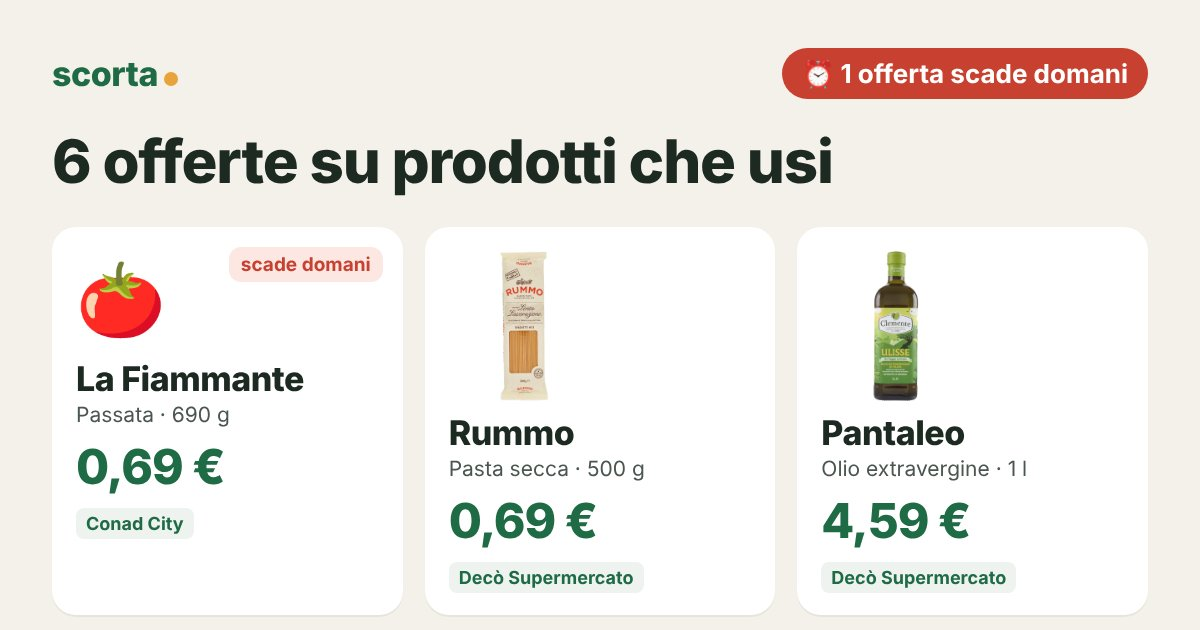
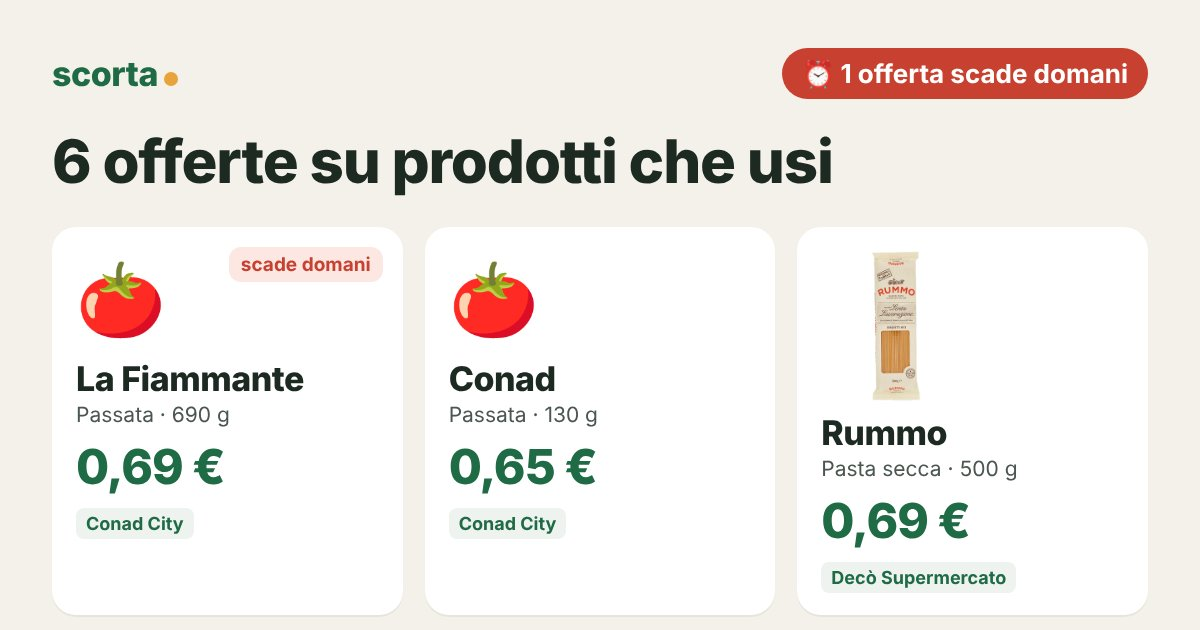
Pagine offerte 2026-11-03
Claude-Session: https://claude.ai/code/session_012BnByD7nnfoHswjF7TKs2L

diff --git a/o/5632e307/index.html b/o/5632e307/index.html
@@ -6,4 +6,4 @@
 <style>body{margin:0;font-family:-apple-system,system-ui,sans-serif;background:#F4F1EA;color:#1d2a22}main{max-width:560px;margin:auto;padding:16px}img{width:100%;border-radius:14px}
 ul{list-style:none;padding:0}li{display:flex;gap:10px;align-items:center;background:#fff;border-radius:12px;padding:10px 12px;margin:8px 0}.ic{font-size:26px}.th{width:44px;height:44px;object-fit:contain;background:#fff}li div:nth-child(2){flex:1}small{color:#6b746e}.pr{text-align:right;white-space:nowrap}s{color:#8a8f8b;font-size:13px}
 .btn{display:block;text-align:center;background:#1f6b45;color:#fff;font-weight:700;font-size:18px;padding:16px;border-radius:14px;text-decoration:none;margin:18px 0}.map{display:block;color:#1f6b45;margin:6px 0;text-decoration:none}</style></head>
-<body><main><img src="card.jpg" alt=""><a class="btn" href="https://tally.so/r/OQQV7k?f=F015&amp;a=A142,A143,A144,A145,A146,A147">✅ Segna cosa hai comprato</a><ul><li><span class=ic>🍅</span><div><b>La Fiammante passata di pomodoro Dolcissima 690 g</b><br><small>Conad City · scade domani</small></div><div class="pr"><b>0,69 €</b></div></li><li><img class=th src=../../img/deco_74M07931P004_301.jpg><div><b>Rummo pasta di semola varie trafile 500 g</b><br><small>Decò Supermercato · fino al 12/11</small></div><div class="pr"><b>0,69 €</b></div></li><li><img class=th src=../../img/deco_74M07885P371_301.jpg><div><b>Pantaleo olio extravergine di oliva 1 l</b><br><small>Decò Supermercato · fino al 12/11</small></div><div class="pr"><b>4,59 €</b></div></li><li><span class=ic>🍅</span><div><b>Star Pummarò Corposa 700 g</b><br><small>Dodecà · prezzo fisso</small></div><div class="pr"><b>1,09 €</b></div></li><li><span class=ic>🍅</span><div><b>Star Pummarò Corposa 700 g</b><br><small>Dodecà · prezzo fisso</small></div><div class="pr"><b>1,09 €</b></div></li><li><span class=ic>🍅</span><div><b>Star Pummarò Corposa 700 g</b><br><small>Dodecà · prezzo fisso</small></div><div class="pr"><b>1,09 €</b></div></li></ul><a class="map" href="https://www.google.com/maps/search/?api=1&query=Conad%20City%20Via%20Bosco%20Di%20Capodimonte%209%20Napoli">📍 Conad City · Via Bosco Di Capodimonte 9, Napoli</a><a class="map" href="https://www.google.com/maps/search/?api=1&query=Dec%C3%B2%20Supermercato%20Viale%20Colli%20Aminei%2C%20209%20Napoli">📍 Decò Supermercato · Viale Colli Aminei, 209, Napoli</a><a class="map" href="https://www.google.com/maps/search/?api=1&query=Dodec%C3%A0%20Via%20Nuova%20San%20Rocco%2C%2056/A%20Napoli">📍 Dodecà · Via Nuova San Rocco, 56/A, Napoli</a><p><small>Prezzi e scadenze dai volantini delle insegne. Rispondi STOP su WhatsApp per non ricevere più avvisi.</small></p></main></body></html>
+<body><main><img src="card.jpg" alt=""><a class="btn" href="https://tally.so/r/OQQV7k?f=F015&amp;a=A142,A143,A144,A145,A146,A147">✅ Segna cosa hai comprato</a><ul><li><span class=ic>🍅</span><div><b>La Fiammante passata di pomodoro Dolcissima 690 g</b><br><small>Conad City · scade domani</small></div><div class="pr"><b>0,69 €</b></div></li><li><span class=ic>🍅</span><div><b>Conad doppio concentrato di pomodoro 130 g</b><br><small>Conad City · fino al 8/11</small></div><div class="pr"><b>0,65 €</b></div></li><li><img class=th src=../../img/deco_74M07931P004_301.jpg><div><b>Rummo pasta di semola varie trafile 500 g</b><br><small>Decò Supermercato · fino al 12/11</small></div><div class="pr"><b>0,69 €</b></div></li><li><img class=th src=../../img/deco_74M07885P438_301.jpg><div><b>Santa Rosa Pomodorissimo i pezzettoni 3x400 g</b><br><small>Decò Supermercato · fino al 23/11</small></div><div class="pr"><b>2,15 €</b></div></li><li><img class=th src=../../img/deco_74M07885P371_301.jpg><div><b>Pantaleo olio extravergine di oliva 1 l</b><br><small>Decò Supermercato · fino al 12/11</small></div><div class="pr"><b>4,59 €</b></div></li><li><span class=ic>🍅</span><div><b>Star Pummarò Corposa 700 g</b><br><small>Dodecà · prezzo fisso</small></div><div class="pr"><b>1,09 €</b></div></li></ul><a class="map" href="https://www.google.com/maps/search/?api=1&query=Conad%20City%20Via%20Bosco%20Di%20Capodimonte%209%20Napoli">📍 Conad City · Via Bosco Di Capodimonte 9, Napoli</a><a class="map" href="https://www.google.com/maps/search/?api=1&query=Dec%C3%B2%20Supermercato%20Viale%20Colli%20Aminei%2C%20209%20Napoli">📍 Decò Supermercato · Viale Colli Aminei, 209, Napoli</a><a class="map" href="https://www.google.com/maps/search/?api=1&query=Dodec%C3%A0%20Via%20Nuova%20San%20Rocco%2C%2056/A%20Napoli">📍 Dodecà · Via Nuova San Rocco, 56/A, Napoli</a><p><small>Prezzi e scadenze dai volantini delle insegne. Rispondi STOP su WhatsApp per non ricevere più avvisi.</small></p></main></body></html>
